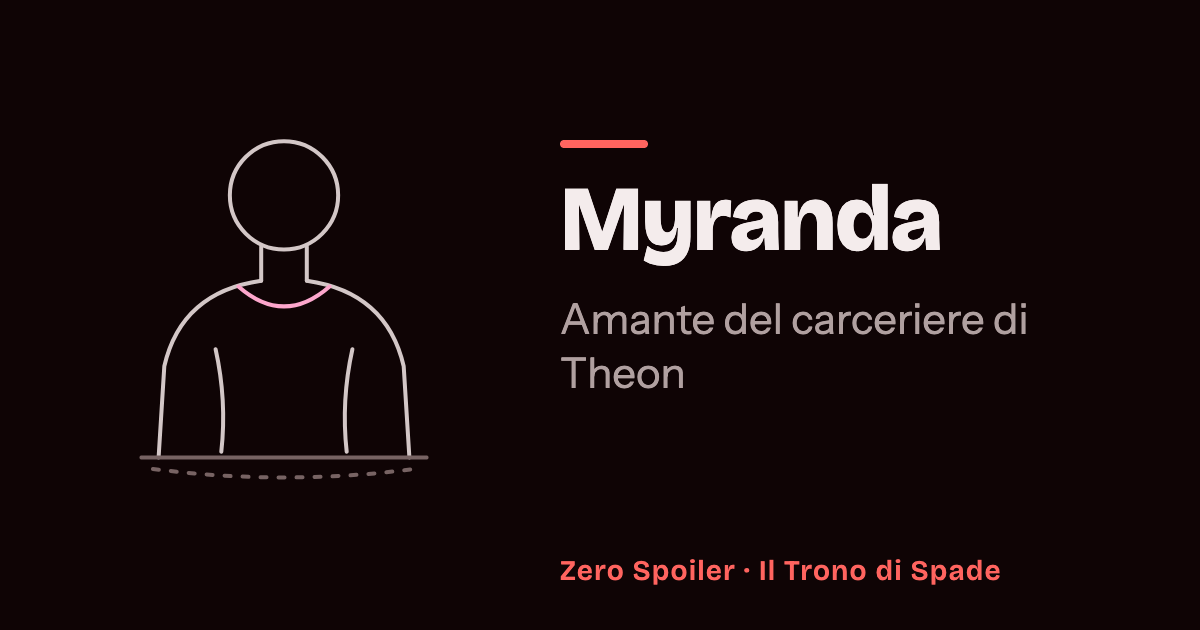
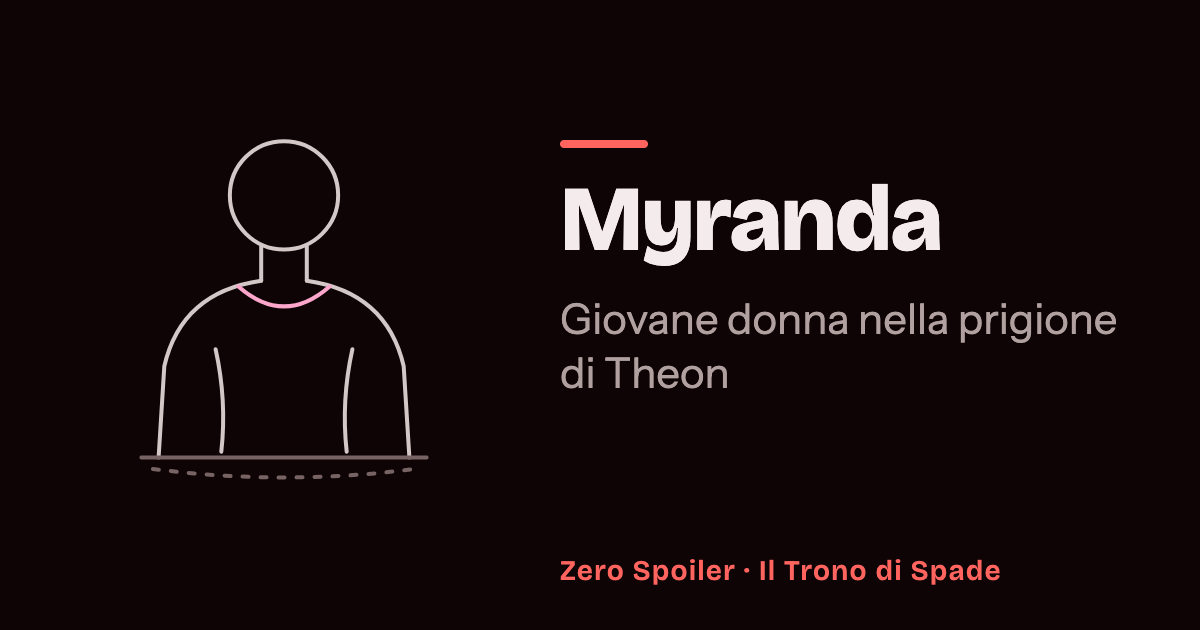
fix(thrones): hold Myranda's texts to what episode 27 shows
Her role, summary and log now tell only the scene of "The Bear and the
Maiden Fair"; the episode-30 role and House Bolton go, her affiliation
opens as no allegiance, and her season-4 facts are noted for stage 4.
Ramsay's ordering comment says 30.

Changed region(s): [[0.4625, 0.4825, 0.925, 0.6333]]

diff --git a/src/data/series/game-of-thrones/records/season-3.ts b/src/data/series/game-of-thrones/records/season-3.ts
@@ -293,40 +293,27 @@ export const season3: ThronesSaga = {
     },
     // #1641: Bran's road and Theon.
     // The show alone, so chapter 284 (Reek I of A Dance with Dragons, the
-    // chapter the scene adapts) only orders every entry. "Mhysa" (episode
-    // 30) names Theon's captor as Ramsay Snow, Roose Bolton's bastard: her
-    // master's name and house wait for it.
+    // chapter the scene adapts) only orders every entry. Episode 27 shows
+    // only the scene: whom she serves and her bond with Ramsay are told in
+    // season 4, steps for the stage that reaches it.
     'myranda': {
-      role: [
-        {
-          episode: 27,
-          chapter: 284,
-          source: 'episode',
-          value: {
-            it: 'Amante del carceriere di Theon',
-            en: 'Lover of Theon’s captor',
-          },
-        },
-        {
-          episode: 30,
-          chapter: 284,
-          source: 'episode',
-          value: { it: 'Amante di Ramsay Snow', en: 'Ramsay Snow’s lover' },
-        },
-      ],
+      role: {
+        it: 'Giovane donna nella prigione di Theon',
+        en: 'Young woman at Theon’s prison',
+      },
       log: {
-        it: 'Con un’altra ragazza, Violet, libera Theon dalla croce a cui è legato, lo stende su un letto e lo seduce. Il loro padrone li interrompe e fa tenere fermo Theon per evirarlo.',
-        en: 'With another young woman, Violet, she frees Theon from the cross he is bound to, lays him on a bed and seduces him. Their master interrupts them and has Theon held down to geld him.',
+        it: 'Con un’altra ragazza, Violet, libera Theon dalla croce a cui è legato, lo stende su un letto e lo seduce. Poi entra il suo carceriere, che fa tenere fermo Theon per evirarlo.',
+        en: 'With another young woman, Violet, she frees Theon from the cross he is bound to, lays him on a bed and seduces him. Then his captor comes in and has Theon held down to geld him.',
       },
       status: [
         { episode: 27, chapter: 284, source: 'episode', value: 'alive' },
       ],
       affiliation: [
         {
-          episode: 30,
+          episode: 27,
           chapter: 284,
           source: 'episode',
-          value: { it: 'Casa Bolton', en: 'House Bolton' },
+          value: { it: 'Nessuna fedeltà', en: 'No allegiance' },
         },
       ],
     },
@@ -576,8 +563,8 @@ export const season3: ThronesSaga = {
       revealedAtChapter: 284,
       name: { it: 'Myranda', en: 'Myranda' },
       summary: {
-        it: 'Una giovane al servizio del carceriere di Theon Greyjoy.',
-        en: 'A young woman in the service of Theon Greyjoy’s captor.',
+        it: 'Una giovane donna che, con Violet, seduce Theon Greyjoy prigioniero.',
+        en: 'A young woman who, with Violet, seduces the captive Theon Greyjoy.',
       },
       visual: { art: 'myranda', tint: 'pink' },
     },

diff --git a/src/server/archive/thronesSeason3Bran.test.ts b/src/server/archive/thronesSeason3Bran.test.ts
@@ -39,9 +39,9 @@ const RECORDS: {
 ]
 
 /**
- * Every role and affiliation step the group files, on Myranda and on the
- * characters season 1 filed, by its English text; `source` for a step one
- * medium alone tells.
+ * Every role and affiliation the group files, by its English text: Myranda's
+ * at her gate and the steps on the characters season 1 filed; `source` for
+ * what one medium alone tells.
  */
 const STEPS: {
   chapter: number
@@ -71,17 +71,18 @@ const STEPS: {
     episode: 30,
     chapter: 193,
   },
+  // Her opening role and affiliation: episode 27 shows only the scene.
   {
     id: 'myranda',
-    en: 'Ramsay Snow’s lover',
-    episode: 30,
+    en: 'Young woman at Theon’s prison',
+    episode: 27,
     chapter: 284,
     source: 'episode',
   },
   {
     id: 'myranda',
-    en: 'House Bolton',
-    episode: 30,
+    en: 'No allegiance',
+    episode: 27,
     chapter: 284,
     source: 'episode',
   },

diff --git a/src/data/series/game-of-thrones/records/season-2.chronicle.ts b/src/data/series/game-of-thrones/records/season-2.chronicle.ts
@@ -1129,7 +1129,7 @@ export const season2Chronicles = {
   // Reeds, the Walders, Ramsay, the Hornwood widow, Aeron, Victarion, Wex,
   // Black Lorren and Farlen have only book stories here: each is the books’
   // record or reaches the show past the stage, and its book stories are
-  // ordered at its show gate (Aeron 55, the Reeds 22, Ramsay 32, Wyman 60).
+  // ordered at its show gate (Aeron 55, the Reeds 22, Ramsay 30, Wyman 60).
   'balon-greyjoy': [
     inBooks(
       [12, 85],

diff --git a/docs/content-provenance/game-of-thrones-season-3-characters.md b/docs/content-provenance/game-of-thrones-season-3-characters.md
@@ -301,12 +301,12 @@ order them.
 | `myranda` (show)      | 27, "The Bear and the Maiden Fair": Violet tells Theon that "Myranda knows what she's doing" (quoted on the Myranda page); she answers "you, me, and Violet" (Violet page) | none: the books' only Myranda is Myranda Royce of the Vale, another person; Reek I (284) orders her |
 | `ramsay-snow` (moved) | 30, "Mhysa": Roose tells Walder Frey that "Ramsay delivered the terms" and "Ramsay has his own way of doing things" (quoted on the Ramsay Bolton page). #1466 had 32       | 140, Theon VI, as filed                                                                             |
 
-- Myranda: role "Lover of Theon's captor" at her gate, then "Ramsay Snow's
-  lover" and House Bolton at 30, where "Mhysa" names the captor as Roose
-  Bolton's bastard; she does not appear in that episode, and at 27 neither her
-  master's name nor his house is told. Alive. Her log is the scene of 27: she
-  and Violet free Theon from the cross and seduce him, and their master has him
-  held down to geld him. Italian "Myranda" (her own section of Italian
+- Myranda: role "Young woman at Theon's prison", "No allegiance", alive, all at
+  her gate. Episode 27 shows only the scene, so her log is it: she and Violet
+  free Theon from the cross and seduce him, and his captor comes in and has him
+  held down to geld him. That she is Ramsay's lover in House Bolton's service is
+  shown in season 4 (from "The Lion and the Rose", 32), steps for stage 4; she
+  is not in "Mhysa" (30). Italian "Myranda" (her own section of Italian
   Wikipedia's characters list).
 - Ramsay Snow: the boy who tortures Theon from "Dark Wings, Dark Words" (22) is
   unnamed through "The Bear and the Maiden Fair" (27) and credited only as "Boy"

diff --git a/docs/architecture.md b/docs/architecture.md
@@ -619,7 +619,7 @@ epithet, bounty and the like) are counted only as part of the timelines row.
 | Saga modules           | 3                                                                                       |
 | Line drawings          | 317, one per record and 3 for the seasons' headings, plus 213 redrawings of 156 records |
 | Chronicle stories      | 1188, for 213 characters                                                                |
-| Dated timelines        | 1089                                                                                    |
+| Dated timelines        | 1088                                                                                    |
 | Affiliation steps      | 262                                                                                     |
 | Status steps           | 398                                                                                     |
 | Later visits to places | 5                                                                                       |
